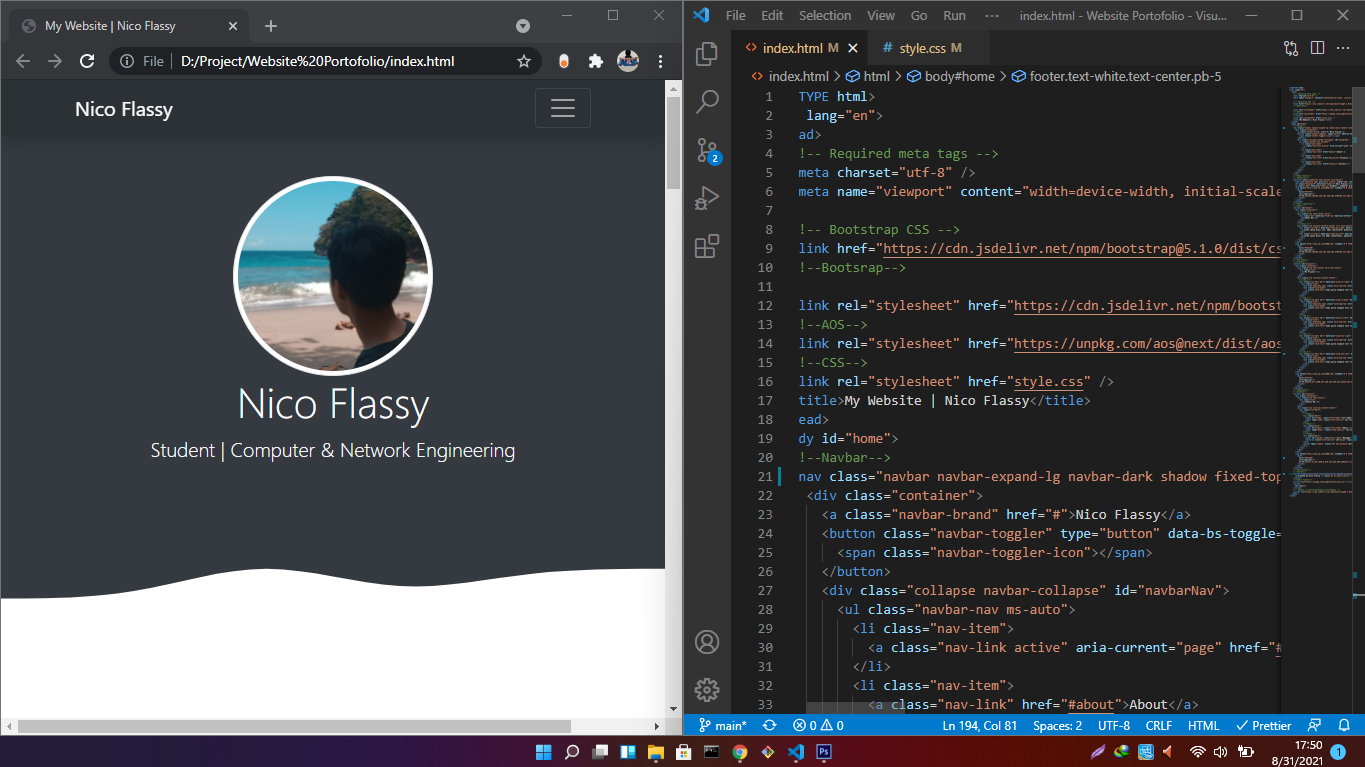
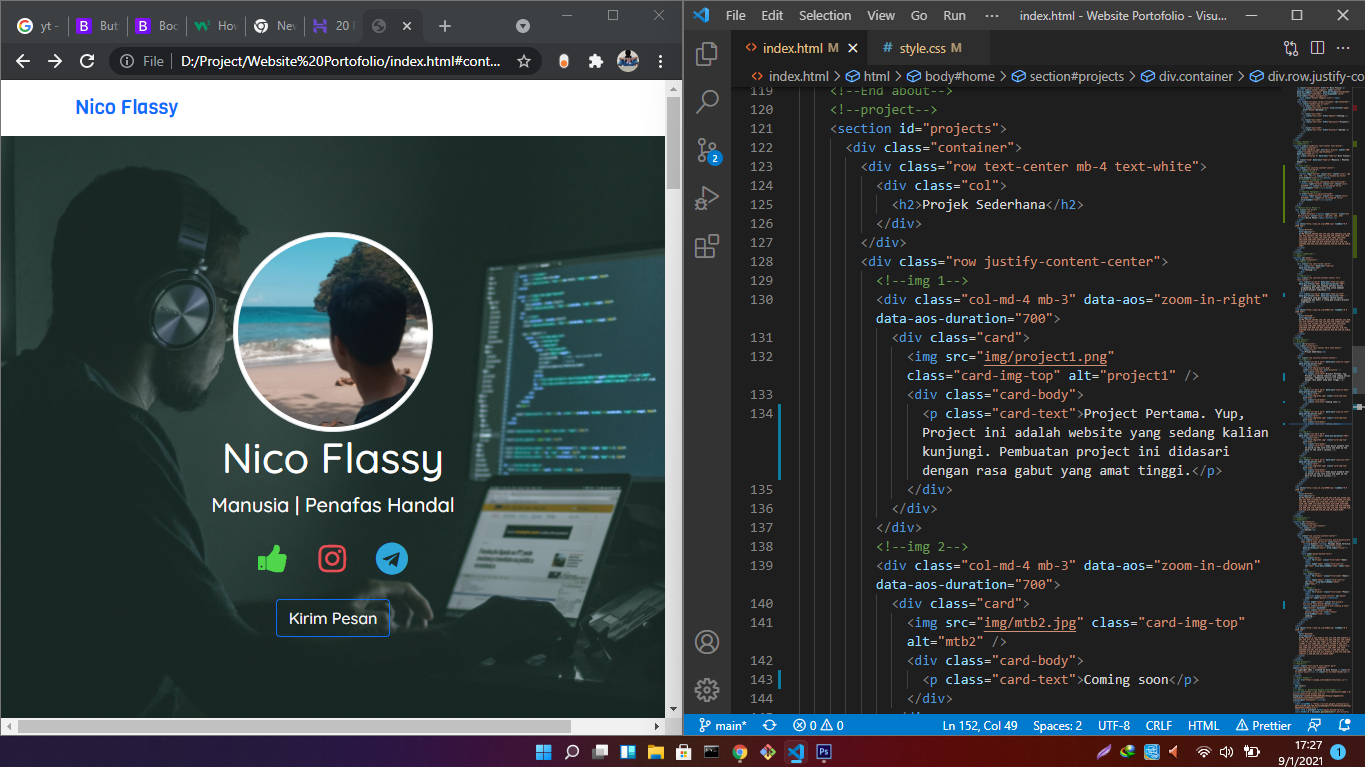
Perubahan tampilan website

diff --git a/index.html b/index.html
@@ -8,7 +8,6 @@
     <!-- Bootstrap CSS -->
     <link href="https://cdn.jsdelivr.net/npm/bootstrap@5.1.0/dist/css/bootstrap.min.css" rel="stylesheet" integrity="sha384-KyZXEAg3QhqLMpG8r+8fhAXLRk2vvoC2f3B09zVXn8CA5QIVfZOJ3BCsw2P0p/We" crossorigin="anonymous" />
     <!--Bootsrap-->
-
     <link rel="stylesheet" href="https://cdn.jsdelivr.net/npm/bootstrap-icons@1.5.0/font/bootstrap-icons.css" />
     <!--AOS-->
     <link rel="stylesheet" href="https://unpkg.com/aos@next/dist/aos.css" />
@@ -22,9 +21,12 @@
     <link rel="preconnect" href="https://fonts.googleapis.com" />
     <link rel="preconnect" href="https://fonts.gstatic.com" crossorigin />
     <link href="https://fonts.googleapis.com/css2?family=Quicksand:wght@500&family=Viga&display=swap" rel="stylesheet" />
+    <!--Font awesome-->
+    <link rel="stylesheet" href="https://stackpath.bootstrapcdn.com/font-awesome/4.7.0/css/font-awesome.min.css" rel="stylesheet" />
     <title>My Website | Nico Flassy</title>
   </head>
   <body id="home">
+  
     <!--Navbar-->
     <nav class="navbar navbar-expand-lg">
       <div class="container">
@@ -58,6 +60,27 @@
         <h1 class="display-4" data-aos="fade-in">Nico Flassy</h1>
         <p class="lead" data-aos="fade-in">Manusia | Penafas Handal</p>
       </div>
+      <!--Icon icon-->
+      <div class="row justify-content-center">
+        <div class="col-md-6">
+          <!--Button Like-->
+          <button type="button" class="btn" style="color: rgb(79, 214, 74)"><i class="fa fa-thumbs-up fa-2x" aria-hidden="true"></i></button>
+          <!--Button Instagram-->
+          <a href="https://www.instagram.com/nicoflsy10">
+            <button type="button" class="btn" style="color: #e25059"><i class="fa fa-instagram fa-2x" aria-hidden="true"></i></button
+          ></a>
+          <!--Button Telegram-->
+          <a href="https://t.me/nicoflsy10">
+            <button type="button" class="btn" style="color: #2fa6d9" ;><i class="fa fa-telegram fa-2x" aria-hidden="true"></i></button
+          ></a>
+        </div>
+      </div>
+      <!--Button Kirim Pesan-->
+      <div class="row mt-3">
+        <a class="col">
+         <a href="#contact"><button type="button" class="btn btn-primary" style="color: rgb(245, 245, 245)"><span>Kirim Pesan</span></button></a>
+        </div>
+      </div>
       <svg xmlns="http://www.w3.org/2000/svg" viewBox="0 0 1440 320">
         <path
           fill="#ffffff"
@@ -79,10 +102,10 @@
         <!--baris 2-->
         <div class="row justify-content-center fs-5 text-center">
           <div class="col-md-4" data-aos="fade-up-right" data-aos-offset="300" data-aos-duration="700">
-            <p>Manusia yang tak sengaja melihat konten progamming dan akhirnya iseng untuk membuat project-project sederhana.</p>
+            <p>Manusia yang iseng membuat project-project sederhana.</p>
           </div>
-          <div class="col-md-4" data-aos="fade-up-left" data-aos-offset="300" data-aos-duration="700" data-aos-delay="150">
-            <p>Menungso seng gak sengojo ndelok konten progamming dan akhir e iseng gae project-project sederhana.</p>
+          <div class="col-md-4" data-aos="fade-up-left" data-aos-offset="300" data-aos-duration="700" >
+            <p>Menungso seng iseng gae project-project sederhana.</p>
           </div>
         </div>
       </div>
@@ -109,7 +132,7 @@
             <div class="card">
               <img src="img/project1.png" class="card-img-top" alt="project1" />
               <div class="card-body">
-                <p class="card-text">Web Pertama. Yup, Project ini adalah website yang sedang kalian kunjungi. Pembuatan project ini didasari dengan rasa gabut yang amat tinggi.</p>
+                <p class="card-text">Project Pertama. Yup, Project ini adalah website yang sedang kalian kunjungi. Pembuatan project ini didasari dengan rasa gabut yang amat tinggi.</p>
               </div>
             </div>
           </div>
@@ -118,7 +141,7 @@
             <div class="card">
               <img src="img/mtb2.jpg" class="card-img-top" alt="mtb2" />
               <div class="card-body">
-                <p class="card-text">Some quick example text to build on the card title and make up the bulk of the card's content.</p>
+                <p class="card-text">Coming soon.</p>
               </div>
             </div>
           </div>
@@ -127,7 +150,7 @@
             <div class="card">
               <img src="img/mtb3.jpg" class="card-img-top" alt="mtb3" />
               <div class="card-body">
-                <p class="card-text">Some quick example text to build on the card title and make up the bulk of the card's content.</p>
+                <p class="card-text">Coming soon.</p>
               </div>
             </div>
           </div>
@@ -136,7 +159,7 @@
             <div class="card">
               <img src="img/mtb4.jpg" class="card-img-top" alt="mtb4" />
               <div class="card-body">
-                <p class="card-text">Some quick example text to build on the card title and make up the bulk of the card's content.</p>
+                <p class="card-text">Coming soon.</p>
               </div>
             </div>
           </div>
@@ -145,7 +168,7 @@
             <div class="card">
               <img src="img/mtb5.jpg" class="card-img-top" alt="mtb5" />
               <div class="card-body">
-                <p class="card-text">Some quick example text to build on the card title and make up the bulk of the card's content.</p>
+                <p class="card-text">Coming soon.</p>
               </div>
             </div>
           </div>
@@ -190,8 +213,8 @@
                 <label for="pesan" class="form-label">Pesan</label>
                 <textarea class="form-control" id="pesan" rows="3" name="pesan"></textarea>
               </div>
-              <button type="submit" class="btn btn-primary btn-kirim">Kirim</button>
-              <button class="btn btn-primary btn-loading d-none" type="button" disabled>
+              <button type="submit" class="btn-primary btn-kirim text-black">Kirim</button>
+              <button class="btn-primary btn-loading d-none" type="button" disabled>
                 <span class="spinner-border spinner-border-sm" role="status" aria-hidden="true"></span>
                 Loading...
               </button>

diff --git a/style.css b/style.css
@@ -4,7 +4,7 @@
 }
 .jumbotron {
   padding-top: 6rem;
-  background-image: url(img/bg1r3.jpg);
+  background-image: url(img/bg1r.jpg);
   background-size: cover;
   font-family: "Quicksand", sans-serif;
 }
@@ -20,6 +20,13 @@ section {
 .navbar-brand {
   font-family: "Viga";
   font-size: 32;
+}
+
+.btn,
+.btn:hover,
+.btn:active,
+.btn:visited {
+  background-color: rgba(0, 0, 255, 0) !important;
 }
 
 @media (min-width: 992px) {
